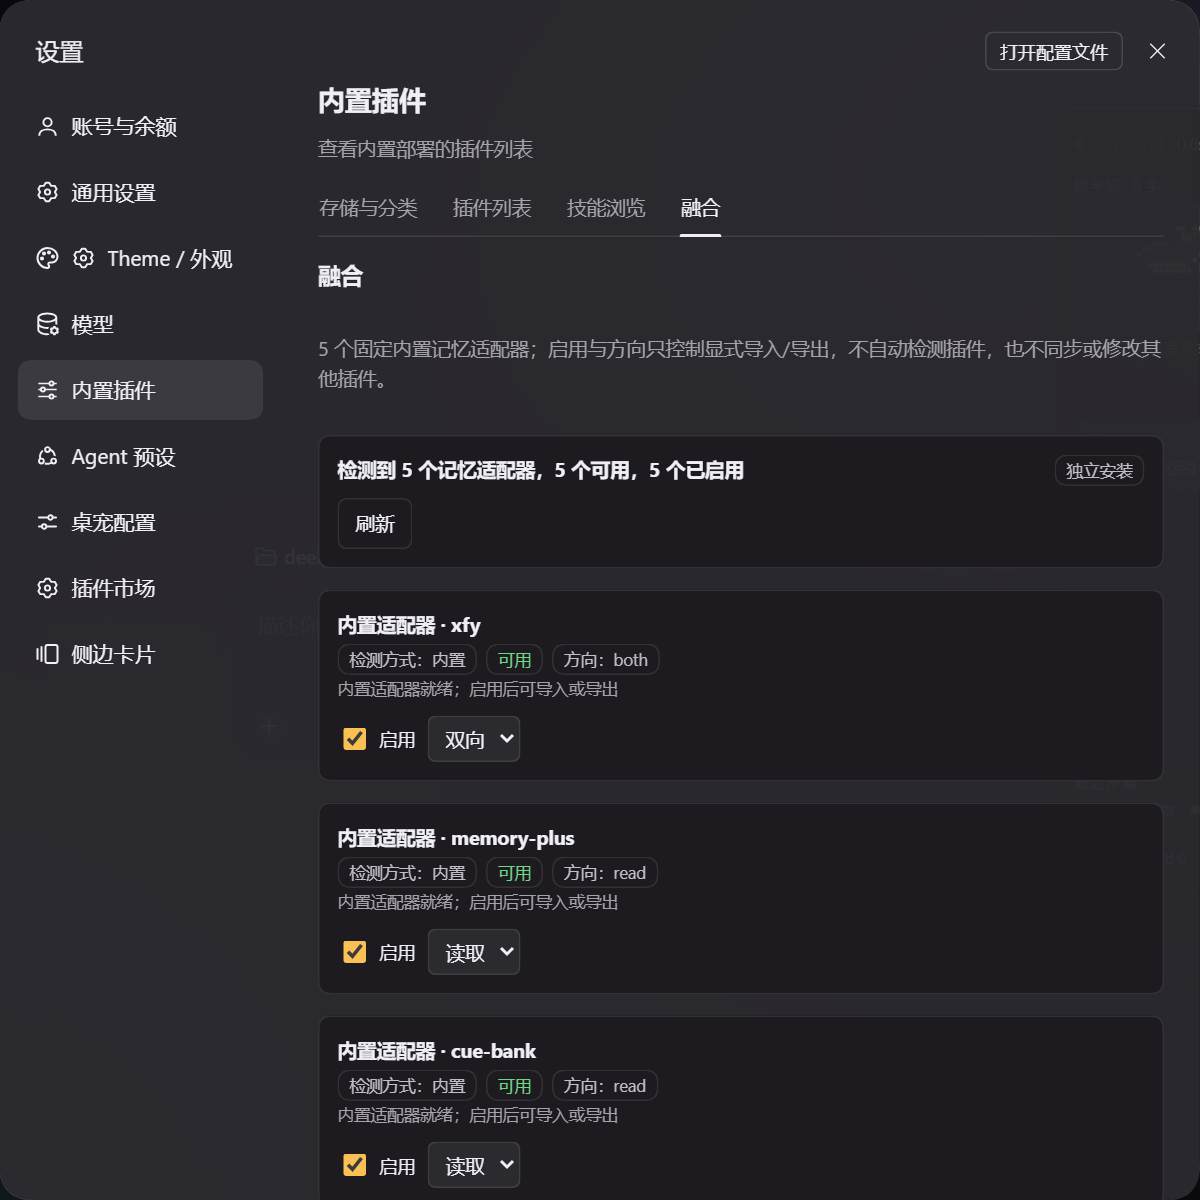
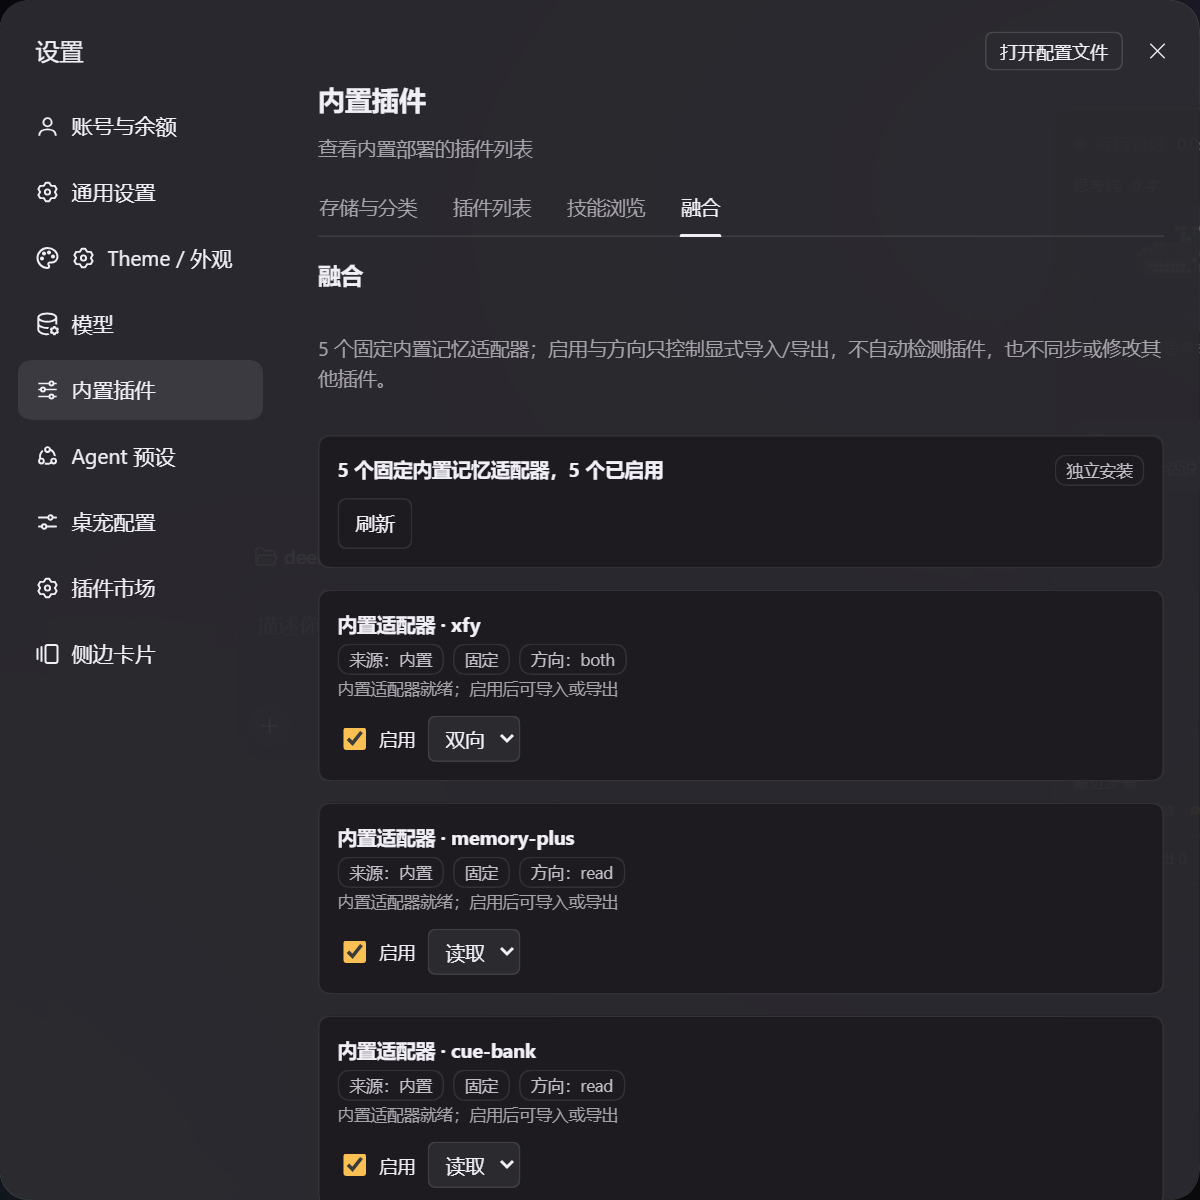
fix(ui): correct fusion summary and source labels
Replace the misleading detected/available summary and detection labels with fixed built-in adapter wording, source/fixed badges, and an updated screenshot.

diff --git a/client/index.js b/client/index.js
@@ -96,12 +96,11 @@ window.__ModuleLoader__.load({
       statusSuperseded: '已取代',
       fusionTitle: '融合',
       fusionIntro: '5 个固定内置记忆适配器；启用与方向只控制显式导入/导出，不自动检测插件，也不同步或修改其他插件。',
-      fusionSummary: '检测到 {count} 个记忆适配器，{available} 个可用，{enabled} 个已启用',
-      detectedBy: '检测方式',
+      fusionSummary: '{count} 个固定内置记忆适配器，{enabled} 个已启用',
+      detectedBy: '来源',
       byBuiltin: '内置',
+      fixed: '固定',
       saved: '已保存',
-      available: '可用',
-      unavailable: '不可用',
       enable: '启用',
       direction: '方向',
       directionRead: '读取',
@@ -192,12 +191,11 @@ window.__ModuleLoader__.load({
       statusSuperseded: 'Superseded',
       fusionTitle: 'Fusion',
       fusionIntro: 'Five fixed built-in memory adapters. Enable/direction only control explicit import/export; Memweave does not auto-detect plugins, sync automatically, or edit another plugin.',
-      fusionSummary: '{count} memory adapters, {available} available, {enabled} enabled',
-      detectedBy: 'Detected by',
+      fusionSummary: '{count} fixed built-in memory adapters, {enabled} enabled',
+      detectedBy: 'Source',
       byBuiltin: 'Built-in',
+      fixed: 'Fixed',
       saved: 'Saved',
-      available: 'Available',
-      unavailable: 'Unavailable',
       enable: 'Enable',
       direction: 'Direction',
       directionRead: 'Read',
@@ -849,7 +847,6 @@ window.__ModuleLoader__.load({
 
       const fusion = state.status === 'ready' ? state.fusion : null;
       const enabledCount = fusion === null ? 0 : fusion.plugins.filter(plugin => plugin.enabled).length;
-      const availableCount = fusion === null ? 0 : fusion.plugins.filter(plugin => plugin.available).length;
       const directionOptions = [
         ['read', t('directionRead')],
         ['write', t('directionWrite')],
@@ -872,7 +869,7 @@ window.__ModuleLoader__.load({
 
         fusion === null ? null : h('div', { className: 'mw-card', key: 'summary' }, [
           h('div', { className: 'mw-between', key: 'head' }, [
-            h('strong', { key: 'summary' }, t('fusionSummary', { count: fusion.plugins.length, available: availableCount, enabled: enabledCount })),
+            h('strong', { key: 'summary' }, t('fusionSummary', { count: fusion.plugins.length, enabled: enabledCount })),
             h('span', { className: `mw-badge${fusion.aggregateBundle ? ' mw-badge-ok' : ''}`, key: 'aggregate' }, fusion.aggregateBundle ? t('aggregateOn') : t('aggregateOff')),
           ]),
           h('button', { className: 'mw-button', type: 'button', style: { marginTop: 8 }, onClick: load }, t('refresh')),
@@ -887,7 +884,7 @@ window.__ModuleLoader__.load({
               h('strong', { key: 'label' }, plugin.label),
               h('div', { className: 'mw-fusion-meta', key: 'meta' }, [
                 h('span', { className: 'mw-badge', key: 'by' }, `${t('detectedBy')}：${detectionLabels[plugin.detectedBy] ?? plugin.detectedBy}`),
-                h('span', { className: `mw-badge${plugin.available ? ' mw-badge-ok' : ' mw-badge-warn'}`, key: 'avail' }, plugin.available ? t('available') : t('unavailable')),
+                h('span', { className: 'mw-badge', key: 'fixed' }, t('fixed')),
                 h('span', { className: 'mw-badge', key: 'dir' }, `${t('direction')}：${plugin.direction}`),
               ]),
               h('div', { className: 'mw-muted mw-hint', key: 'detail' }, plugin.detail),
@@ -899,7 +896,7 @@ window.__ModuleLoader__.load({
                   key: 'check',
                   type: 'checkbox',
                   checked: plugin.enabled,
-                  disabled: busyKey === plugin.key || (!plugin.available && !plugin.enabled),
+                  disabled: busyKey === plugin.key,
                   onChange: event => { update(plugin, { enabled: event.currentTarget.checked }); },
                 }),
                 t('enable'),
@@ -908,7 +905,7 @@ window.__ModuleLoader__.load({
                 key: 'select',
                 className: 'mw-select',
                 value: plugin.direction,
-                disabled: busyKey === plugin.key || !plugin.available,
+                disabled: busyKey === plugin.key,
                 onChange: event => { update(plugin, { direction: event.currentTarget.value }); },
               }, directionOptions.map(([value, label]) => h('option', { key: value, value }, label))),
             ]),

diff --git a/lib/index.js b/lib/index.js
@@ -263,10 +263,9 @@ function renderList(args, value) {
 /** Render fusion status output. */
 function renderFusionStatus(_args, value) {
   const enabled = value.plugins.filter(plugin => plugin.enabled).length;
-  const available = value.plugins.filter(plugin => plugin.available).length;
-  const lines = [`检测到 ${value.plugins.length} 个记忆适配器，${available} 个可用，${enabled} 个已启用`];
+  const lines = [`${value.plugins.length} 个固定内置记忆适配器，${enabled} 个已启用`];
   for (const plugin of value.plugins) {
-    lines.push(`${plugin.label} [${plugin.detectedBy}] ${plugin.available ? '可用' : '不可用'} ${plugin.direction}`);
+    lines.push(`${plugin.label} [来源: 内置] 方向: ${plugin.direction}`);
   }
   lines.push(value.aggregateBundle ? '聚合包已启用' : '独立安装');
   return textBlock(lines.join('\n'));

diff --git a/docs/USAGE.md b/docs/USAGE.md
@@ -299,7 +299,7 @@ candidate ──verify(valid) +0.15──► verified
 
 顶部汇总：
 
-- `检测到 N 个记忆适配器，A 个可用，M 个已启用`
+- `N 个固定内置记忆适配器，M 个已启用`
 - 聚合状态徽章：`独立安装` 或 `聚合包已启用`
 
 每个插件卡片显示：
@@ -307,8 +307,8 @@ candidate ──verify(valid) +0.15──► verified
 | 字段 | 说明 |
 |---|---|
 | 插件名 | 如 `内置适配器 · xfy` |
-| 检测方式 | 内置（固定，不做自动探测） |
-| 可用状态 | 固定为可用 |
+| 来源 | 内置（固定） |
+| 可用状态 | 固定可用 |
 | 方向 | 读取 / 写入 / 双向 |
 | 详情 | 内置适配器就绪 |
 | 启用 | 开关 |
@@ -383,7 +383,7 @@ type: judgment
 
 ### 4.4 兼容矩阵
 
-| 插件 | 检测方式 | 读取格式 | 导出格式 | 默认方向 |
+| 插件 | 来源 | 读取格式 | 导出格式 | 默认方向 |
 |---|---|---|---|---|
 | `dsh-memory-xfy` | 内置 | `.dsh-memory/**/*.md` | Markdown | 读取 |
 | `dsh-memory-plus` | 内置 | `.dsh-memory/**/*.json` | JSON | 读取 |

diff --git a/README.en.md b/README.en.md
@@ -366,7 +366,7 @@ Memweave never imports another plugin's runtime values, edits another plugin's c
 
 ### Compatibility matrix
 
-| Plugin | Detection | File / format | Default direction |
+| Plugin | Source | File / format | Default direction |
 |---|---|---|---|
 | `dsh-memory-xfy` | built-in | `.dsh-memory/**/*.md` | read |
 | `dsh-memory-plus` | built-in | `.dsh-memory/**/*.json` | read |

diff --git a/README.md b/README.md
@@ -378,7 +378,7 @@ open(tmp, 'wx', 0o600) → write → close → rename(tmp, target)
 
 ### 兼容矩阵
 
-| 插件 | 检测方式 | 文件/格式 | 默认方向 |
+| 插件 | 来源 | 文件/格式 | 默认方向 |
 |---|---|---|---|
 | `dsh-memory-xfy` | 内置 | `.dsh-memory/**/*.md` | 读 |
 | `dsh-memory-plus` | 内置 | `.dsh-memory/**/*.json` | 读 |
